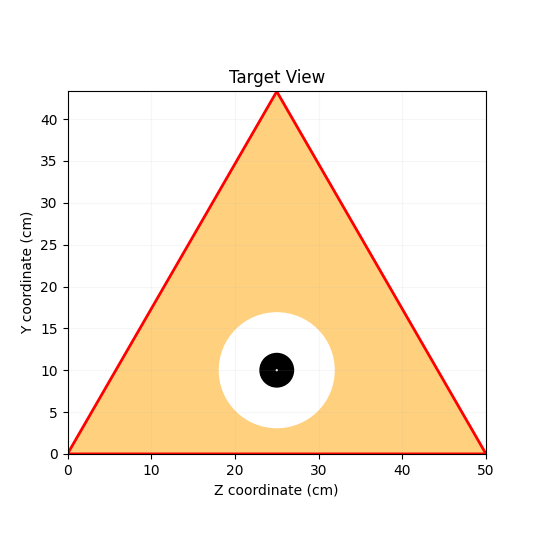
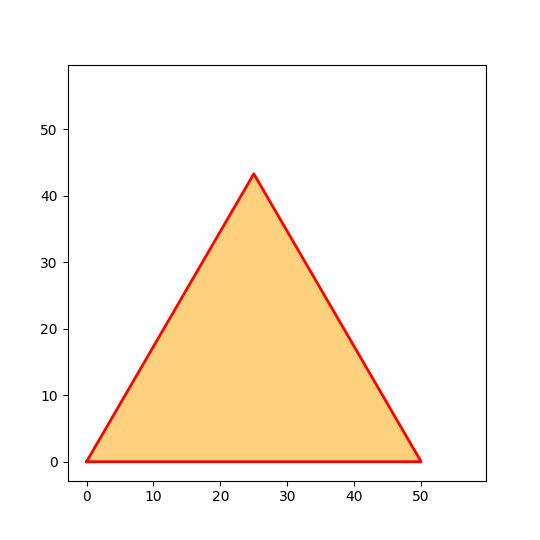
Done v1

diff --git a/Simulation Calculation/CalculateProgram.py b/Simulation Calculation/CalculateProgram.py
@@ -16,14 +16,12 @@ def FindPitch(yaw, input_target_z, base_target_distance, luncher_length, triangl
     smallest_error = float('inf')
     pitch = None
 
-    theta = -21
-    while theta <= 21:
+    for theta in range(-21, 21, 3):
         error = abs(theta - perfect_pitch)
         if error < smallest_error:
             smallest_error = error  
             pitch = theta
 
-        theta+=3
     return pitch
 
 def FindYaw(base_target_distance, base_target_height, base_wall_distance, base_wall_height, luncher_length, luncher_base_height, velocity):
@@ -73,31 +71,33 @@ def Calculate(Z_Target, Y_Target):
     Yaw = FindYaw(target_distance, input_target_y, wall_distance, wall_height, luncher_length, luncher_baseHight, velocity)
     Pitch = FindPitch(Yaw, input_target_z, target_distance, luncher_length, triangle_side_length)
 
-    # #Input for plotting
-    # trajectory_data = [{
-    #     "theta": Y_Deg,
-    #     "v0": target_speed, 
-    #     "y0": luncher_length * math.sin(math.radians(Y_Deg)),#ไม่แก้
-    #     "x0": -luncher_length * math.cos(math.radians(Y_Deg))#ไม่แก้
-    # }]
+    #Input for plotting
+    trajectory_data = [{
+        "theta": Yaw,
+        "v0": velocity, 
+        "y0": luncher_length * math.sin(math.radians(Yaw)) + luncher_baseHight,
+        "x0": -luncher_length * math.cos(math.radians(Yaw))
+    }]
 
-    # position_data = [{
-    #     "x": (math.tan(math.radians(X_Deg)) * (target_distance + (luncher_length * math.cos(math.radians(Y_Deg))))) + triangle_side_length/2,
-    #     "y": tgh + luncher_length * math.sin(math.radians(Y_Deg)) - table,
-    #     "diameter": squash_ball_diameter #ไม่แก้
-    # }]
+    tgh = calculate_height_at_time(velocity, Yaw, calculate_time_of_flight(velocity, Yaw, target_distance))
 
-    # with open('Simulation Calculation\\TrajectoryPath.json', 'w') as file:
-    #     json.dump(trajectory_data, file, indent=4)
+    position_data = [{
+        "z": (math.sin(math.radians(Pitch)) * (target_distance + (luncher_length * math.cos(math.radians(Pitch))))) + triangle_side_length/2,
+        "y": tgh + luncher_length * math.sin(math.radians(Yaw)) + luncher_baseHight - table,
+        "diameter": squash_ball_diameter
+    }]
 
-    # with open('Simulation Calculation\\SquashBall_Pos.json', 'w') as file:
-    #     json.dump(position_data, file, indent=4)
+    with open('Simulation Calculation\\TrajectoryPath.json', 'w') as file:
+        json.dump(trajectory_data, file, indent=4)
 
-    # TargetInside = plot_Target_view(triangle_side_length, input_target_z, input_target_y - table, circle_diameter, 'Simulation Calculation\SquashBall_Pos.json')
-    # plt.savefig('Picture\\Target.png')
+    with open('Simulation Calculation\\SquashBall_Pos.json', 'w') as file:
+        json.dump(position_data, file, indent=4)
 
-    # plot_Path_view(target_distance, input_target_y, circle_diameter, 'Simulation Calculation\TrajectoryPath.json')
-    # plt.savefig('Picture\\Trajectory.png')
+    TargetInside = plot_Target_view(triangle_side_length, input_target_z, input_target_y - table, circle_diameter, 'Simulation Calculation\\SquashBall_Pos.json')
+    plt.savefig('Picture\\Target.png')
+
+    plot_Path_view(target_distance, input_target_y, circle_diameter, 'Simulation Calculation\\TrajectoryPath.json')
+    plt.savefig('Picture\\Trajectory.png')
 
     # # plt.show()
-    # return X_Deg, Y_Deg, TargetInside
+    return Pitch, Yaw, TargetInside

diff --git a/Function/TargetGenerator.py b/Function/TargetGenerator.py
@@ -28,12 +28,32 @@ def generate_black_circle(ax, center_z, center_y, diameter):
     return (center_z, center_y), radius
 
 def is_circle_in_triangle(center, radius, vertices):
+    def point_in_triangle(pt, v1, v2, v3):
+        # Using barycentric coordinates to determine if point is inside the triangle
+        d1 = sign(pt, v1, v2)
+        d2 = sign(pt, v2, v3)
+        d3 = sign(pt, v3, v1)
+        has_neg = (d1 < 0) or (d2 < 0) or (d3 < 0)
+        has_pos = (d1 > 0) or (d2 > 0) or (d3 > 0)
+        return not (has_neg and has_pos)
+
+    def sign(p1, p2, p3):
+        return (p1[0] - p3[0]) * (p2[1] - p3[1]) - (p2[0] - p3[0]) * (p1[1] - p3[1])
+
     for i in range(3):
         p1 = vertices[i]
         p2 = vertices[(i + 1) % 3]
         d = np.abs(np.cross(np.subtract(p2, p1), np.subtract(p1, center)) / np.linalg.norm(np.subtract(p2, p1)))
         if d < radius:
             return False
+
+    # Check if all circle points are inside the triangle
+    step_angle = np.pi / 4  # Check 8 points around the circle
+    for angle in np.arange(0, 2 * np.pi, step_angle):
+        edge_point = (center[0] + radius * np.cos(angle), center[1] + radius * np.sin(angle))
+        if not point_in_triangle(edge_point, *vertices):
+            return False
+
     return True
 
 def plot_Target_view(side_length_m, target_center_z_m, target_center_y_m, target_diameter_m, json_file_path):
@@ -57,7 +77,7 @@ def plot_Target_view(side_length_m, target_center_z_m, target_center_y_m, target
         black_positions = json.load(file)
 
     for position in black_positions:
-        black_center_z_cm = position['x'] * 100
+        black_center_z_cm = position['z'] * 100
         black_center_y_cm = position['y'] * 100 
         black_diameter_cm = position['diameter'] * 100 
         black_center, black_radius = generate_black_circle(ax, black_center_z_cm, black_center_y_cm, black_diameter_cm)

diff --git a/GUI/GUI.py b/GUI/GUI.py
@@ -168,9 +168,11 @@ class PageOne(Page):
         valid_y = self.validate_input(y_target_text)
 
         if valid_z is not True:
+            self.perform_reset()
             self.warning_label_z.config(text=valid_z)
             return
         if valid_y is not True:
+            self.perform_reset()
             self.warning_label_y.config(text=valid_y)
             return
 
